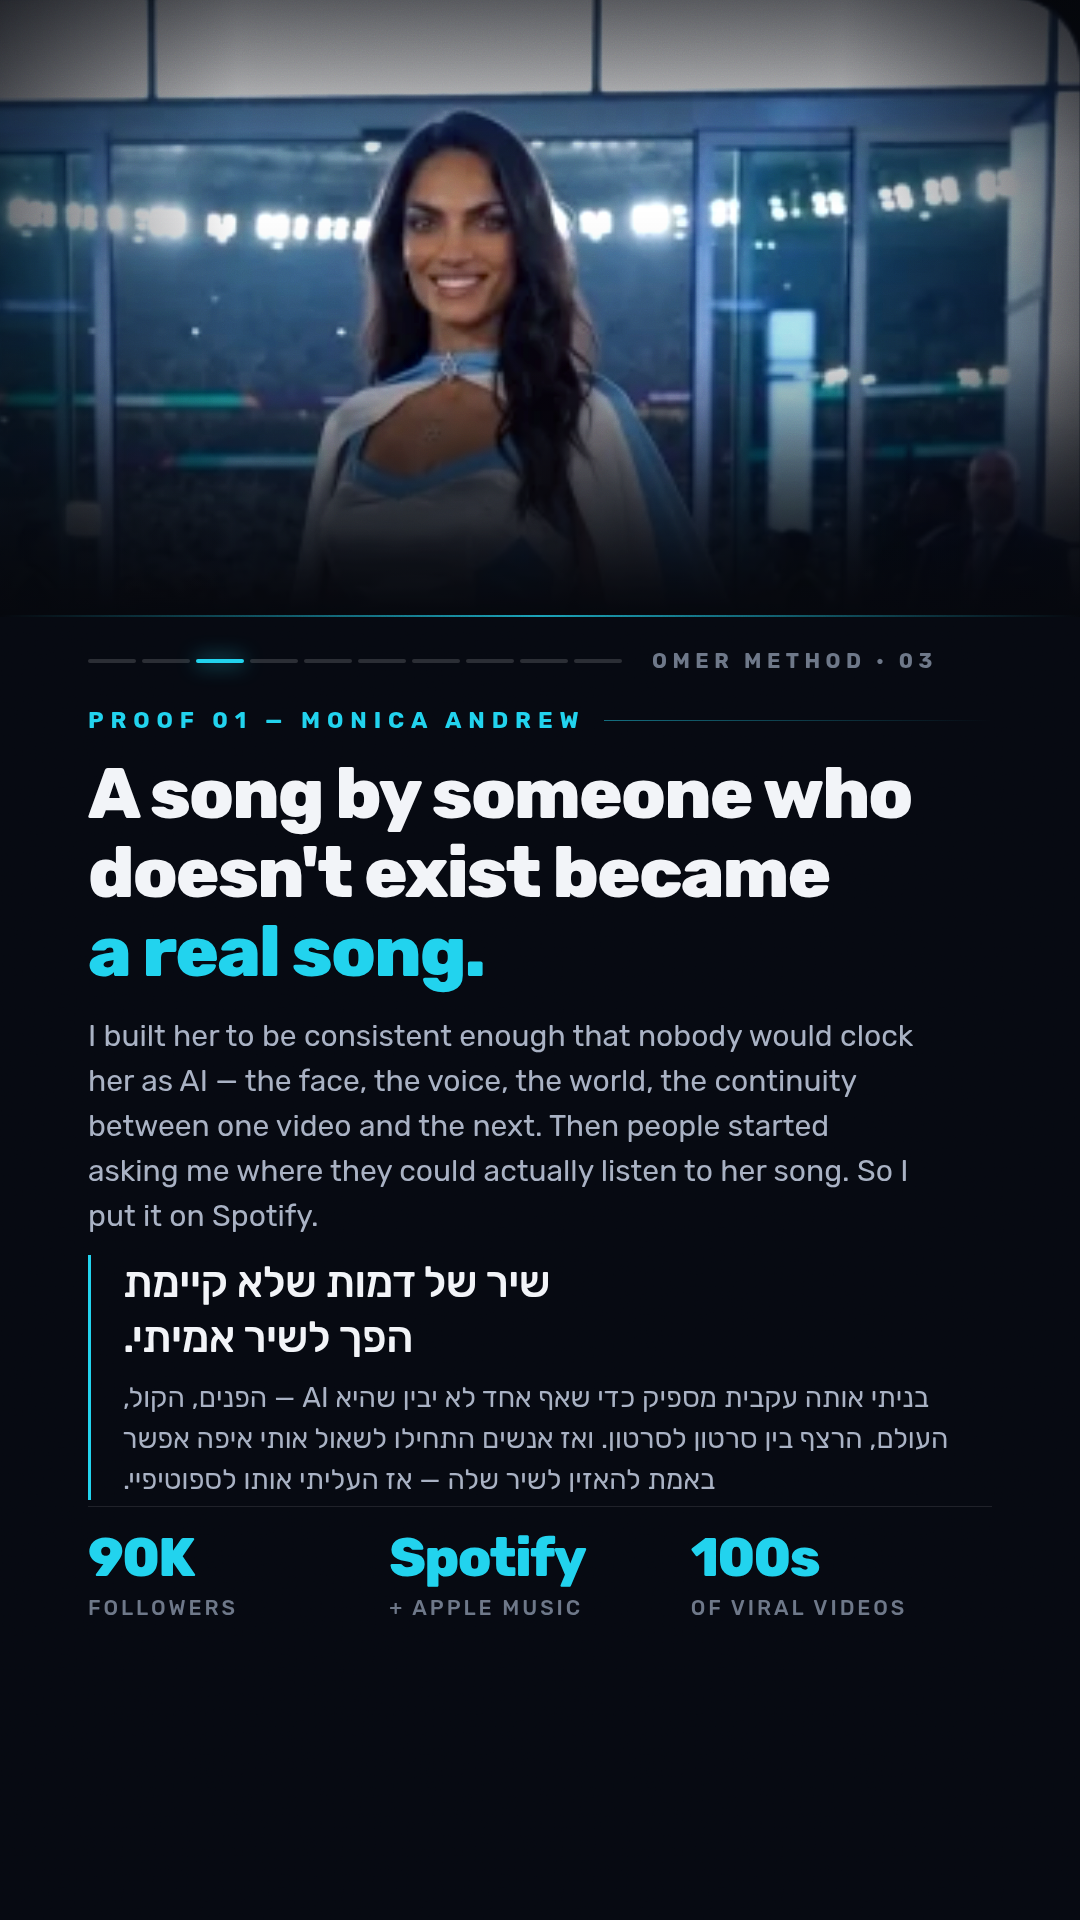
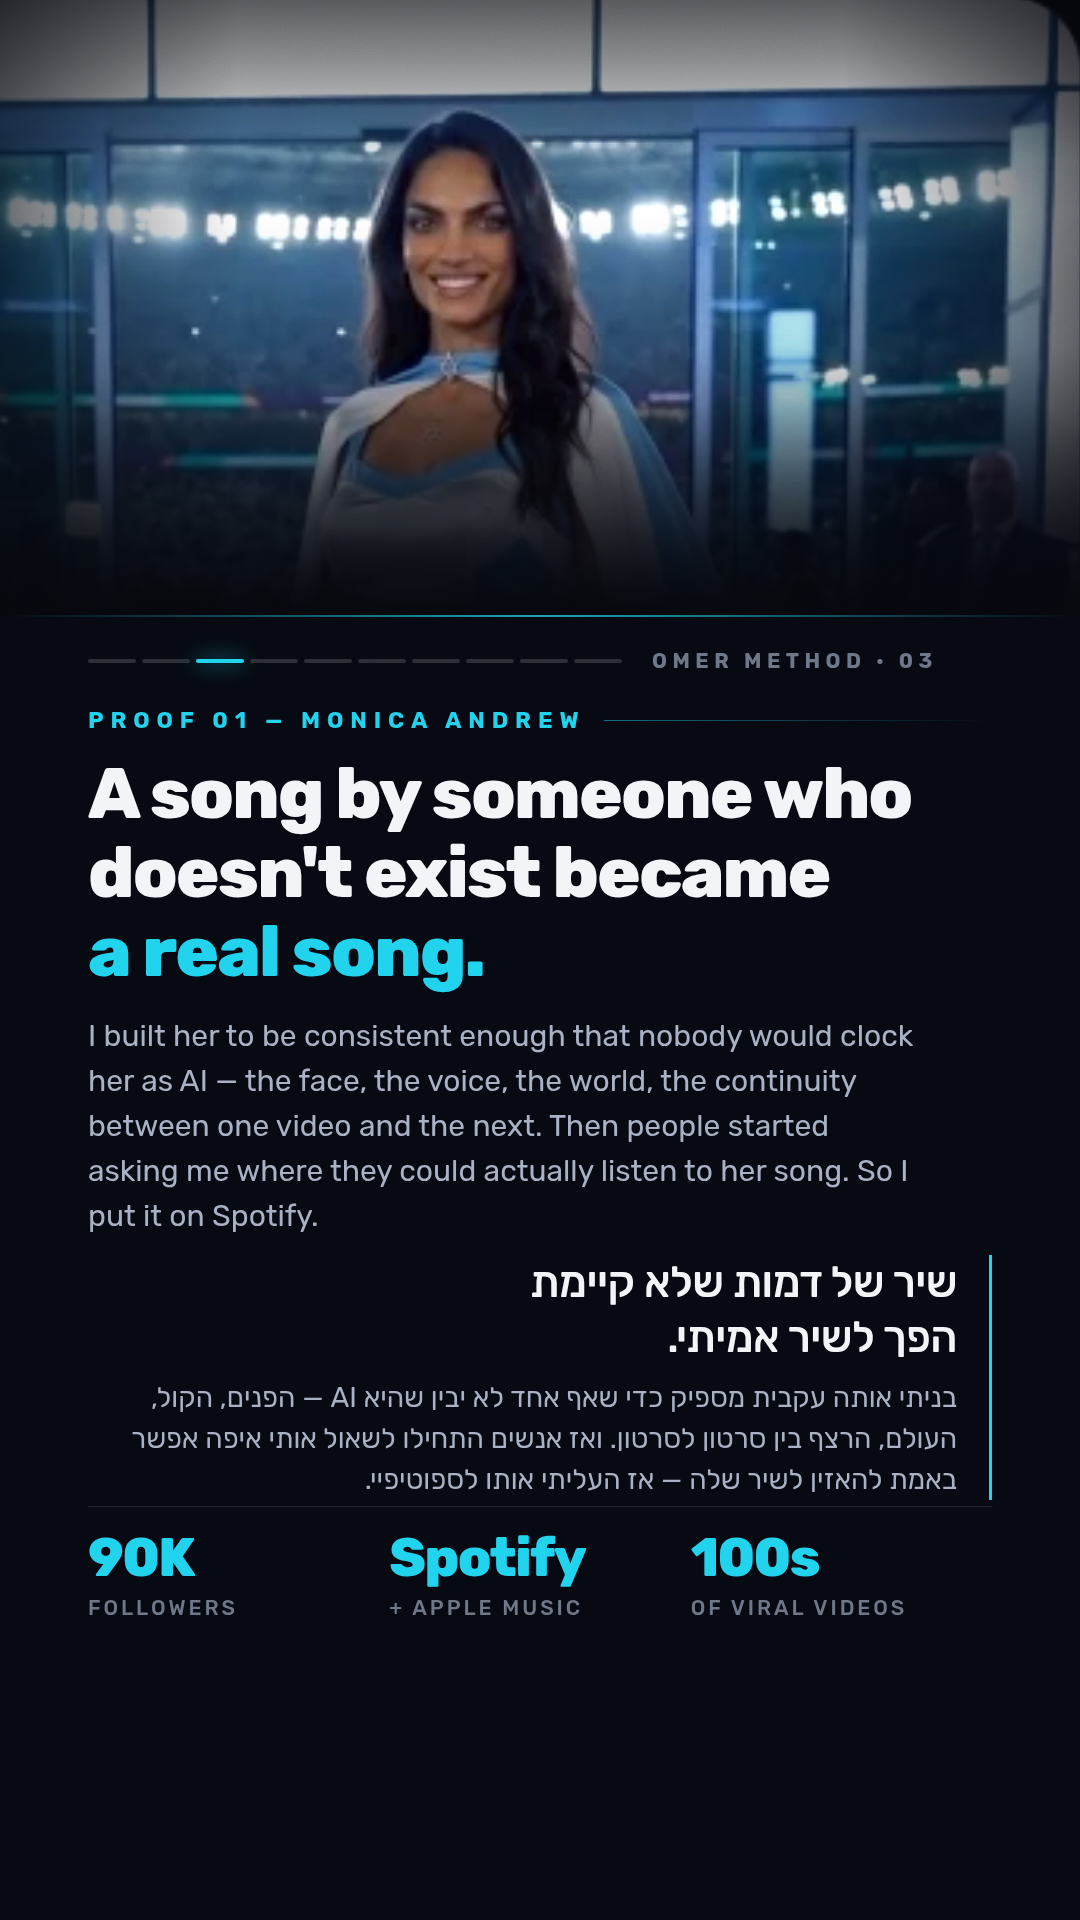
Set the Hebrew blocks right-to-left
Hebrew was right-aligned inside its own line box but the block itself sat
on the English left axis with a left rail, which read as a translated
caption rather than as Hebrew. The blocks now anchor to the right edge
with the rail on their right.

English anchored left and Hebrew anchored right gives the page a real
counter-axis, and the rail marks the switch, so a reader knows at a
glance which block is theirs.

Claude-Session: https://claude.ai/code/session_0113ue75zsKk6knXSw8ei82D

Changed region(s): [[0.1222, 0.6562, 0.8861, 0.7812]]

diff --git a/omer-method-launch/01-stories/frames.html b/omer-method-launch/01-stories/frames.html
@@ -77,23 +77,21 @@ body{background:#14171d;font-family:Rubik,sans-serif;-webkit-font-smoothing:anti
 .deck em{font-style:italic}
 
 /* Hebrew is a sibling voice, not a caption: same paper white, its own rail. */
-.he-line{direction:rtl;text-align:left;font-size:50px;font-weight:600;line-height:1.28;
+.he-line{direction:rtl;text-align:right;font-size:50px;font-weight:600;line-height:1.28;
          color:var(--paper);letter-spacing:-.012em;
          border-left:3px solid var(--cy);padding-left:32px;max-width:860px}
 .he-line.sm{font-size:43px;font-weight:500;line-height:1.3}
-.he-line.right{text-align:right;border-left:none;border-right:3px solid var(--cy);
-               padding-left:0;padding-right:32px;margin-left:auto}
+.he-line.right{text-align:right}
 .he-line.bare{border:none;padding:0}
-.he-block{border-left:3px solid var(--cy);padding-left:32px;max-width:880px}
-.he-block.right{border-left:none;border-right:3px solid var(--cy);
-                padding-left:0;padding-right:32px;margin-left:auto}
+.he-block{border-right:3px solid var(--cy);padding-right:32px;max-width:880px;margin-left:auto}
+.he-block.right{}
 .he-block .he-line{border:none;padding:0;max-width:none}
-.he-deck{direction:rtl;text-align:left;font-size:31px;font-weight:400;line-height:1.52;
+.he-deck{direction:rtl;text-align:right;font-size:31px;font-weight:400;line-height:1.52;
          color:var(--deck);margin-top:15px}
-.he-block.right .he-line,.he-block.right .he-deck{text-align:right}
+
 .he-deck.tight{font-size:28px;line-height:1.45;margin-top:12px}
 .paperframe .he-deck{color:#4A5468}
-.paperframe .he-block{border-left-color:var(--cy-deep)}
+.paperframe .he-block{border-right-color:var(--cy-deep)}
 .he-line .cy{color:var(--cy)}
 
 .rule{height:1px;background:var(--hair)}
@@ -258,7 +256,7 @@ body{background:#14171d;font-family:Rubik,sans-serif;-webkit-font-smoothing:anti
 #f07 .lead .cy{color:var(--cy-deep)}
 #f07 .deck{color:#4B5566}
 #f07 .deck b{color:var(--ink)}
-#f07 .he-line{color:var(--ink);border-left-color:var(--cy-deep)}
+#f07 .he-line{color:var(--ink)}
 #f07 .payload{background:#080B12;border-radius:26px;padding:52px 56px 56px;
   box-shadow:0 34px 80px rgba(8,11,18,.30);position:relative;overflow:hidden}
 #f07 .payload::before{content:'';position:absolute;left:0;top:0;right:0;height:3px;

diff --git a/omer-method-launch/01-stories/design-system.md b/omer-method-launch/01-stories/design-system.md
@@ -99,10 +99,13 @@ it — that duplication is the failure mode here, and it reads as padding.
 Hebrew sets at 50px (lead) / 31px (deck) inside a single cyan rail that spans
 both, so the pair reads as one unit rather than two stray lines.
 
-- Hebrew blocks: `direction: rtl`. Default `text-align: left` keeps them on the
-  shared left axis with a **left** rail.
-- Frame 02 flips to `text-align: right` with a **right** rail — a deliberate
-  counter-axis on the one frame with room for it.
+- Hebrew blocks: `direction: rtl; text-align: right`, pushed to the right edge
+  with a rail on their **right**. Hebrew reads right-to-left, so it starts at the
+  right edge — forcing it onto the English left axis made it read as a translated
+  caption rather than as Hebrew.
+- The result is a deliberate counter-axis: English anchored left, Hebrew anchored
+  right, one rail marking the switch. That contrast is what tells a reader at a
+  glance which language block is theirs.
 - Any Latin or numeric run inside Hebrew is wrapped in `<bdi>` or
   `<span dir="ltr">` (`AI`, `$49`, `omermethod.com`). Bidi has scrambled this
   once already.
